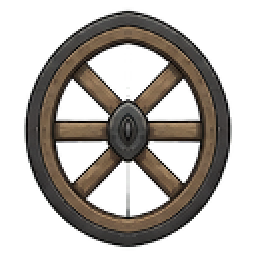
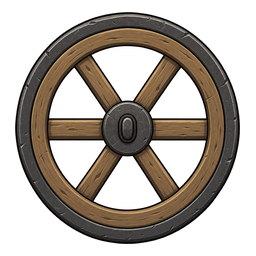
Add files via upload

diff --git a/sidescroll.js b/sidescroll.js
@@ -1,7 +1,9 @@
 (() => {
   'use strict';
 
-  // SideScroll v1.0.37: cart repair setup polish. Asset rotation / flip now share one transform with collision, abandoned repair props can live off-path, and repaired carts snap back to the gameplay layer.
+  // SideScroll v1.0.39: refreshed authored cart-repair art. The chassis is now
+  // wheel-free artwork, runtime wheels stay separate/rotating, and the axle pin
+  // uses a large readable authored texture instead of the procedural placeholder.
 
   const queryParams = new URLSearchParams(window.location.search);
   const PLAYER_MODE = queryParams.get('mode') === 'player';
@@ -1317,65 +1319,21 @@
     1050 / 220
   );
 
-  // v1.0.34 handcart prototype. The body and wheels are intentionally separate
-  // textures so wheel rotation is a real runtime transform rather than baked
-  // animation. The cart's editor/world aspect is the complete 620x255 side view.
+  // v1.0.39 handcart art. The body/chassis intentionally contains no wheels;
+  // the wheel texture is rendered as separate runtime components so it remains
+  // perfectly round and can rotate independently while the cart moves.
   assetAspect.handcart = 620 / 255;
-  textures.handcart = createImageTexture('handcart-body.png?v=1.0.37', 'handcart', null, 620 / 255);
+  textures.handcart = createImageTexture('handcart-body.png?v=1.0.39', 'handcart', null, 620 / 255);
   assetAspect['handcart-wheel'] = 1;
-  textures['handcart-wheel'] = createImageTexture('handcart-wheel.png?v=1.0.37', 'handcart-wheel', null, 1);
-  textures['handcart-wheel-mask'] = createTexture((ctx, w, h) => {
-    ctx.clearRect(0, 0, w, h);
-    ctx.fillStyle = '#3a2c23';
-    ctx.beginPath();
-    ctx.arc(w * 0.5, h * 0.5, w * 0.485, 0, Math.PI * 2);
-    ctx.fill();
-  }, 256, 256, false);
+  textures['handcart-wheel'] = createImageTexture('handcart-wheel.png?v=1.0.39', 'handcart-wheel', null, 1);
   assetAspect['handcart-broken'] = 620 / 255;
-  textures['handcart-broken'] = createProcessedImageTexture(
-    'handcart-body.png?v=1.0.37',
-    'handcart-broken',
-    (ctx) => {
-      // Mechanics-first broken state: remove the front/right wheel from the
-      // existing cart art at runtime. The final art can replace this later
-      // without changing any puzzle state or interaction code.
-      ctx.save();
-      ctx.globalCompositeOperation = 'destination-out';
-      ctx.beginPath();
-      ctx.arc(400, 162, 96, 0, Math.PI * 2);
-      ctx.fill();
-      ctx.restore();
-    },
-    620 / 255
-  );
+  textures['handcart-broken'] = textures.handcart;
   assetAspect['cart-wheel-loose'] = 1;
   textures['cart-wheel-loose'] = textures['handcart-wheel'];
   assetAspect['cart-wheel-ready'] = 1;
   textures['cart-wheel-ready'] = textures['handcart-wheel'];
-  assetAspect['axle-pin'] = 1;
-  textures['axle-pin'] = createTexture((ctx, w, h) => {
-    ctx.clearRect(0, 0, w, h);
-    ctx.translate(w * 0.5, h * 0.5);
-    ctx.rotate(-0.32);
-    ctx.fillStyle = 'rgba(238,209,129,.34)';
-    ctx.beginPath();
-    ctx.arc(0, 0, w * 0.40, 0, Math.PI * 2);
-    ctx.fill();
-    ctx.fillStyle = '#9e8959';
-    ctx.fillRect(-w * 0.31, -h * 0.065, w * 0.54, h * 0.13);
-    ctx.fillStyle = '#e3cd94';
-    ctx.fillRect(-w * 0.30, -h * 0.025, w * 0.49, h * 0.05);
-    ctx.fillStyle = '#75613d';
-    ctx.fillRect(w * 0.13, -h * 0.115, w * 0.10, h * 0.23);
-    ctx.fillStyle = '#e8d49c';
-    ctx.beginPath();
-    ctx.arc(-w * 0.31, 0, w * 0.105, 0, Math.PI * 2);
-    ctx.fill();
-    ctx.fillStyle = '#705c39';
-    ctx.beginPath();
-    ctx.arc(-w * 0.31, 0, w * 0.058, 0, Math.PI * 2);
-    ctx.fill();
-  }, 256, 256, false);
+  assetAspect['axle-pin'] = 2;
+  textures['axle-pin'] = createImageTexture('axle-pin.png?v=1.0.39', 'axle-pin', null, 2);
 
   // Gameplay asset: a deliberately simple, readable wooden crate.  It is
   // generated in code so it has no extra file dependency and can be used as
@@ -3125,6 +3083,7 @@ if (characterSwapBtn) characterSwapBtn.addEventListener('click', () => { toggleC
       id:'axle-pin',
       label:'Axle Pin',
       asset:'axle-pin',
+      image:'axle-pin.png',
       description:'A sturdy pin that looks like it belongs to a wheel.'
     }
   };
@@ -3226,6 +3185,7 @@ if (characterSwapBtn) characterSwapBtn.addEventListener('click', () => { toggleC
   const STONE_WALL_ASPECT = 1600 / 844;
   function correctPuzzleAssetWidth(assetName, width, height) {
     if (assetName === 'stone-wall' && Number.isFinite(Number(height))) return Number(height) * STONE_WALL_ASPECT;
+    if (assetName === 'axle-pin' && Number.isFinite(Number(height))) return Number(height) * 2;
     return width;
   }
   function migratePuzzleArtV2Snapshot(snapshot) {
@@ -3978,6 +3938,20 @@ if (characterSwapBtn) characterSwapBtn.addEventListener('click', () => { toggleC
         existing.set(objectId, obj);
       }
       if (!obj) continue;
+      // Snapshot reset must restore the object's identity as well as its
+      // position/state. Repair interactions deliberately change assetName
+      // (broken cart -> fixed cart, loose wheel -> ready wheel), so leaving the
+      // live asset in place meant Reset could never truly return to the authored
+      // start state. Rebind all asset-derived render state before rebuilding
+      // behaviour/collision below.
+      if (asset && obj.assetName !== asset) {
+        obj.assetName = asset;
+        obj.texture = textures[asset];
+        obj.mesh = billboardMesh;
+        obj.uvScale = assetUv[asset]?.scale || [1, 1];
+        obj.uvOffset = assetUv[asset]?.offset || [0, 0];
+        obj.noFog = asset === 'axle-pin';
+      }
       const xRel = Number.isFinite(state.x) ? state.x : (prop?.x ?? 0);
       obj.x = instance.marker.x + xRel;
       obj.z = Number.isFinite(state.z) ? state.z : (prop?.z ?? pathZ);
@@ -3985,6 +3959,8 @@ if (characterSwapBtn) characterSwapBtn.addEventListener('click', () => { toggleC
       if (obj.assetName === 'axle-pin' && obj.sy < 0.66) obj.sy = 0.72;
       const rawSnapshotWidth = Number.isFinite(state.sx) ? state.sx : (prop?.width ?? obj.sy * (assetAspect[obj.assetName] || 1));
       obj.sx = correctPuzzleAssetWidth(obj.assetName, rawSnapshotWidth, obj.sy);
+      obj.baseSx = obj.sx;
+      obj.baseSy = obj.sy;
       obj.flip = !!state.flip;
       obj.deleted = !!state.deleted;
       obj.category = state.category || prop?.category || obj.category || 'gameplay';
@@ -4002,6 +3978,7 @@ if (characterSwapBtn) characterSwapBtn.addEventListener('click', () => { toggleC
       obj.counterweightVisualAngle = 0;
       obj.counterweightAngle = 0;
       obj.counterweightAngularVelocity = 0;
+      obj.wheelRotation = 0;
       obj.carried = false;
       obj.groundLine = Rig.clamp(Number.isFinite(state.groundLine) ? Number(state.groundLine) : assetGroundLineDefault(obj.assetName), 0, 1);
       const baseY = terrainAnchorBaseY(obj.x, obj.z, obj.category, obj.gameplayLayerLocked);
@@ -5121,7 +5098,7 @@ if (characterSwapBtn) characterSwapBtn.addEventListener('click', () => { toggleC
         collision:{halfWidth:0.33,height:0.66,depth:0.32,platform:false,points:[{x:-1,y:0},{x:1,y:0},{x:1,y:1},{x:-1,y:1}]} },
       { name:'cart-wheel-ready', label:'CART WHEEL · READY', image:'handcart-wheel.png', category:'gameplay', gameplayType:'prop', thumb:'◉', defaultHeight:1.06, gameplayLayerLocked:false,
         collision:{halfWidth:0.33,height:0.66,depth:0.32,platform:false,points:[{x:-1,y:0},{x:1,y:0},{x:1,y:1},{x:-1,y:1}]} },
-      { name:'axle-pin', label:'AXLE PIN', category:'gameplay', gameplayType:'collectible', thumb:'✦', defaultHeight:0.72, gameplayLayerLocked:false }
+      { name:'axle-pin', label:'AXLE PIN', image:'axle-pin.png', category:'gameplay', gameplayType:'collectible', thumb:'✦', defaultHeight:0.72, gameplayLayerLocked:false }
     ]},
     { scope:'environment', title: 'DRESSING · TREES', items: [
       'tree01','tree02','tree03','tree04','tree05','tree06','tree07','tree08'
@@ -6942,6 +6919,16 @@ if (characterSwapBtn) characterSwapBtn.addEventListener('click', () => { toggleC
     delete state.reward;
   }
 
+  function removePuzzleOwnedInventoryItems(instance) {
+    if (!instance?.id) return;
+    const owned = [];
+    for (const [itemId, item] of Object.entries(inventoryState.items || {})) {
+      const count = Math.max(0, Number(item?.sources?.[instance.id]) || 0);
+      if (count > 0) owned.push([itemId, count]);
+    }
+    for (const [itemId, count] of owned) removeInventoryItem(itemId, count, instance.id);
+  }
+
   function resetCurrentPuzzle() {
     const instance = authoringPuzzle();
     if (!instance) return;
@@ -6954,10 +6941,19 @@ if (characterSwapBtn) characterSwapBtn.addEventListener('click', () => { toggleC
       removePuzzleRewardFromInventory(instance, { allowLegacyFallback:true });
       setInventoryOpen(false);
       positionPlayerAtPuzzleEntry(instance);
+      shownPuzzleThoughts.clear();
       hintEl.textContent = 'Test reset to the setup you started this test with · reward removed';
     } else {
       resetPuzzleReward(instance);
+      // Small puzzle items such as the axle pin belong to the puzzle too. If
+      // the player collected one but has not yet consumed it, Reset should not
+      // duplicate it by restoring the world pickup while leaving the inventory
+      // copy behind.
+      removePuzzleOwnedInventoryItems(instance);
       applyPuzzleStart(instance, { persistRuntime:true });
+      setInventoryOpen(false);
+      positionPlayerAtPuzzleEntry(instance);
+      shownPuzzleThoughts.clear();
       hintEl.textContent = 'Puzzle reset to its saved start · completion reward reset too';
     }
     hintEl.classList.remove('hidden');
@@ -8978,15 +8974,11 @@ if (characterSwapBtn) characterSwapBtn.addEventListener('click', () => { toggleC
 
   function drawHandcartWheels(obj, view, drawX, drawY = obj.y, bodyRotation = 0, bodyFlip = false) {
     if (!textures['handcart-wheel']) return;
-    // The generated side-view body already has a clean finished cart. A small
-    // opaque inner disk masks only its baked spokes; the separately textured
-    // wheel is then drawn over the top and can rotate freely. The outer baked
-    // rim sits almost exactly under the new rim, so it reads as wheel thickness
-    // rather than a second wheel while keeping the source art clean.
-    const wheelSize = obj.sy * (185 / 255);
-    const maskSize = obj.sy * (124 / 255);
-    const wheelV = (255 - 162) / 255;
-    const wheelUs = obj.assetName === 'handcart-broken' ? [225 / 620] : [225 / 620, 400 / 620];
+    // The v1.0.39 chassis is genuinely wheel-free. These authored wheel centres
+    // line up with its two vertical supports and rotate around their true hubs.
+    const wheelSize = obj.sy * (160 / 255);
+    const wheelV = (255 - 164) / 255;
+    const wheelUs = obj.assetName === 'handcart-broken' ? [150 / 620] : [150 / 620, 470 / 620];
     for (const uRaw of wheelUs) {
       const u = bodyFlip ? 1 - uRaw : uRaw;
       const localX = (u - 0.5) * obj.sx;
@@ -8994,16 +8986,6 @@ if (characterSwapBtn) characterSwapBtn.addEventListener('click', () => { toggleC
       const c = Math.cos(bodyRotation), s = Math.sin(bodyRotation);
       const centreX = drawX + localX * c - localY * s;
       const centreY = drawY + localX * s + localY * c;
-      if (textures['handcart-wheel-mask']) {
-        const mask = {
-          mesh:centredBillboardMesh, texture:textures['handcart-wheel-mask'],
-          x:centreX, y:centreY, z:obj.z + 0.001,
-          sx:maskSize, sy:maskSize, sz:1, flip:false, shade:1, opacity:1, noFog:obj.noFog, tint:null,
-          asset:true, assetName:'handcart-wheel-mask-component', layer:obj.layer, wrap:false,
-          deleted:false, carried:false, shadow:null, uvScale:[1,1], uvOffset:[0,0], counterweightVisualAngle:0
-        };
-        drawObject(mask, view, { force:true });
-      }
       const wheel = {
         mesh:centredBillboardMesh, texture:textures['handcart-wheel'],
         x:centreX, y:centreY,

diff --git a/asset-lab.js b/asset-lab.js
@@ -1,7 +1,7 @@
 (() => {
   'use strict';
 
-  const VERSION = '1.0.37';
+  const VERSION = '1.0.39';
   const BEHAVIOUR_KEY = 'sidescroll.asset-behaviours.v1';
   const COLLISION_KEY = 'sidescroll.asset-collisions.v1';
   const LAYOUT_KEY = 'sidescroll.asset-layout.v1';
@@ -19,7 +19,7 @@
     {group:'PUZZLE · BRIDGE',scope:'puzzle',name:'handcart-broken',label:'Broken Handcart',image:'handcart-body.png',height:1.75,groundLine:0.064,behaviour:{},collision:{halfWidthRatio:0.405,heightRatio:0.72,fixedHeight:null,depthRatio:0.20,points:[{x:-1,y:0},{x:-1,y:.17},{x:-.8,y:.17},{x:-.8,y:.34},{x:-.63,y:.34},{x:-.63,y:1},{x:.63,y:1},{x:.63,y:.34},{x:.8,y:.34},{x:.8,y:.17},{x:1,y:.17},{x:1,y:0}]}},
     {group:'PUZZLE · BRIDGE',scope:'puzzle',name:'handcart',label:'Wooden Handcart · Pushable',image:'handcart-body.png',height:1.75,groundLine:0.064,behaviour:{solid:true,supportSurface:true,pushable:true},collision:{halfWidthRatio:0.405,heightRatio:0.72,fixedHeight:null,depthRatio:0.20,points:[{x:-1,y:0},{x:-1,y:.17},{x:-.8,y:.17},{x:-.8,y:.34},{x:-.63,y:.34},{x:-.63,y:1},{x:.63,y:1},{x:.63,y:.34},{x:.8,y:.34},{x:.8,y:.17},{x:1,y:.17},{x:1,y:0}]}},
     {group:'PUZZLE · BRIDGE',scope:'puzzle',name:'cart-wheel-loose',label:'Cart Wheel',image:'handcart-wheel.png',height:1.06,groundLine:0,behaviour:{carryable:true,placeable:true},collision:{halfWidthRatio:0.30,heightRatio:0.62,fixedHeight:null,depthRatio:0.20,points:[{x:-1,y:0},{x:1,y:0},{x:1,y:1},{x:-1,y:1}]}},
-    {group:'PUZZLE · BRIDGE',scope:'puzzle',name:'axle-pin',label:'Axle Pin',procedural:'axle-pin',height:0.72,groundLine:0,behaviour:{}},
+    {group:'PUZZLE · BRIDGE',scope:'puzzle',name:'axle-pin',label:'Axle Pin',image:'axle-pin.png',height:0.72,groundLine:0,behaviour:{}},
     {group:'PUZZLE · WOODLAND',scope:'puzzle',name:'puzzle-log-a',label:'Moveable Log A',image:'puzzle-log-a.png',height:0.84,behaviour:{solid:true,carryable:true,placeable:true,supportSurface:true,stackable:true},collision:{halfWidthRatio:0.52/(0.84*1.7083),fixedHeight:STACK_ITEM_HEIGHT,heightRatio:null,depthRatio:0.56/(0.84*1.7083),points:null}},
     {group:'PUZZLE · WOODLAND',scope:'puzzle',name:'puzzle-log-b',label:'Moveable Log B',image:'puzzle-log-b.png',height:0.72,behaviour:{solid:true,carryable:true,placeable:true,supportSurface:true,stackable:true}},
     {group:'PUZZLE · WOODLAND',scope:'puzzle',name:'puzzle-log-c',label:'Moveable Log C',image:'puzzle-log-c.png',height:0.76,behaviour:{solid:true,carryable:true,placeable:true,supportSurface:true,stackable:true}},
@@ -172,6 +172,9 @@
   const defaultPoints = () => [{x:-1,y:0},{x:1,y:0},{x:1,y:1},{x:-1,y:1}];
   const clone = value => value == null ? value : JSON.parse(JSON.stringify(value));
   const clamp = (value,min,max) => Math.max(min,Math.min(max,value));
+  const cartWheelPreview = new Image();
+  cartWheelPreview.onload = () => draw();
+  cartWheelPreview.src = `handcart-wheel.png?v=${VERSION}`;
 
   function drawAxlePin(ctx,w,h){
     ctx.clearRect(0,0,w,h);
@@ -200,20 +203,6 @@
     if (asset.procedural) {
       const img=makeProceduralImage(asset);
       img.onload=()=>{resize();renderPointEditor();draw();};
-      imageCache.set(asset.name,img);
-      return img;
-    }
-    if (asset.name === 'handcart-broken') {
-      const img = new Image();
-      const source = new Image();
-      source.onload = () => {
-        const c=document.createElement('canvas'); c.width=source.naturalWidth; c.height=source.naturalHeight;
-        const cctx=c.getContext('2d'); cctx.drawImage(source,0,0);
-        cctx.save(); cctx.globalCompositeOperation='destination-out'; cctx.beginPath(); cctx.arc(400,162,96,0,Math.PI*2); cctx.fill(); cctx.restore();
-        img.src=c.toDataURL('image/png');
-      };
-      img.onload=()=>{resize();renderPointEditor();draw();};
-      source.src=`${asset.image}?v=${VERSION}`;
       imageCache.set(asset.name,img);
       return img;
     }
@@ -990,6 +979,15 @@
         ctx.rotate(-visual.deg*Math.PI/180);
         ctx.scale(visual.flip?-1:1,1);
         ctx.drawImage(image,-ar.drawW*.5,-ar.drawH,ar.drawW,ar.drawH);
+        if((asset.name==='handcart'||asset.name==='handcart-broken')&&cartWheelPreview.complete&&cartWheelPreview.naturalWidth){
+          const wheelSize=ar.drawH*(160/255);
+          const wheelY=-(91/255)*ar.drawH;
+          const wheelUs=asset.name==='handcart-broken'?[150/620]:[150/620,470/620];
+          for(const u of wheelUs){
+            const wheelX=(u-.5)*ar.drawW;
+            ctx.drawImage(cartWheelPreview,wheelX-wheelSize*.5,wheelY-wheelSize*.5,wheelSize,wheelSize);
+          }
+        }
         ctx.restore();
       }
       if(state.pairMode){

diff --git a/puzzle-groups.js b/puzzle-groups.js
@@ -1,5 +1,5 @@
 window.SideScrollPuzzleConfig = {
-  version: 26,
+  version: 27,
   assetPacks: {
     "woodland-puzzle-atlas-v1": {
       assets: [
@@ -13,10 +13,10 @@ window.SideScrollPuzzleConfig = {
         { name: "bridge-left", url: "bridge-left.png?v=1.0.12", aspect: 1.298592 },
         { name: "bridge-right", url: "bridge-right.png?v=1.0.12", aspect: 1.298592 },
         { name: "handcart-broken", aspect: 2.431373 },
-        { name: "handcart", url: "handcart-body.png?v=1.0.37", aspect: 2.431373 },
+        { name: "handcart", url: "handcart-body.png?v=1.0.39", aspect: 2.431373 },
         { name: "cart-wheel-loose", aspect: 1 },
         { name: "cart-wheel-ready", aspect: 1 },
-        { name: "axle-pin", aspect: 1 },
+        { name: "axle-pin", url: "axle-pin.png?v=1.0.39", aspect: 2 },
         { name: "counterweight-plank", url: "counterweight-plank.png?v=1.0.25", aspect: 4.772727 },
         { name: "stone-wall", url: "stone-wall.png?v=0.2.94", aspect: 1.895735 },
         { name: "stone-piece-a", url: "stone-piece-a.png?v=0.2.94", aspect: 1.094391 },

diff --git a/play.html b/play.html
@@ -9,7 +9,7 @@
   <meta name="theme-color" content="#081015">
   <link rel="manifest" href="manifest.json">
   <link rel="apple-touch-icon" href="icon-192.png">
-  <link rel="stylesheet" href="style.css?v=1.0.37">
+  <link rel="stylesheet" href="style.css?v=1.0.39">
   <title>SideScroll</title>
 </head>
 <body class="modular-game ss-standalone-game" data-game-id="game-16">
@@ -410,11 +410,11 @@
     </section>
   </main>
 
-  <script src="site-config.js?v=1.0.37"></script>
-  <script src="core.js?v=1.0.37"></script>
-  <script src="walk-rig.js?v=1.0.37"></script>
-  <script src="puzzle-groups.js?v=1.0.37"></script>
-  <script src="baked-game-design.js?v=1.0.37"></script>
-  <script src="sidescroll.js?v=1.0.37"></script>
+  <script src="site-config.js?v=1.0.39"></script>
+  <script src="core.js?v=1.0.39"></script>
+  <script src="walk-rig.js?v=1.0.39"></script>
+  <script src="puzzle-groups.js?v=1.0.39"></script>
+  <script src="baked-game-design.js?v=1.0.39"></script>
+  <script src="sidescroll.js?v=1.0.39"></script>
 </body>
 </html>

diff --git a/asset-lab.html b/asset-lab.html
@@ -9,7 +9,7 @@
   <meta name="theme-color" content="#172026">
   <link rel="manifest" href="manifest.json">
   <link rel="apple-touch-icon" href="icon-192.png">
-  <link rel="stylesheet" href="style.css?v=1.0.37">
+  <link rel="stylesheet" href="style.css?v=1.0.39">
   <title>Asset Lab · SideScroll</title>
 </head>
 <body class="ss-asset-lab">
@@ -157,8 +157,8 @@
     </aside>
   </main>
 
-  <script src="site-config.js?v=1.0.37"></script>
-  <script src="core.js?v=1.0.37"></script>
-  <script src="asset-lab.js?v=1.0.37"></script>
+  <script src="site-config.js?v=1.0.39"></script>
+  <script src="core.js?v=1.0.39"></script>
+  <script src="asset-lab.js?v=1.0.39"></script>
 </body>
 </html>

diff --git a/sw.js b/sw.js
@@ -1,4 +1,4 @@
-const CACHE = "sidescroll-v1.0.37";
+const CACHE = "sidescroll-v1.0.39";
 const APP_SHELL = [
   "./",
   "./index.html",
@@ -41,6 +41,7 @@ const APP_SHELL = [
   "./bridge-right.png",
   "./handcart-body.png",
   "./handcart-wheel.png",
+  "./axle-pin.png",
   "./stone-wall.png",
   "./stone-piece-a.png",
   "./stone-piece-b.png",

diff --git a/README.md b/README.md
@@ -1,11 +1,10 @@
-# SideScroll v1.0.37
+# SideScroll v1.0.39
 
-- Asset Lab now has general **Rotation** and **Flip Horizontally** controls. Collision uses the same rotation/flip/offset transform so it stays aligned with the art.
-- Adds a real **Remove Collision** action in Asset Lab; removed collision stays removed instead of immediately regenerating.
-- Fixes non-solid assets still blocking the player. A Cart Wheel can keep a useful carry/placement shape without being a world obstacle.
-- Adds a per-instance **Flip** button to the normal scene/puzzle editor.
-- Broken Handcart, loose Cart Wheel and Axle Pin now default to the free depth layer so they can sit slightly off the road. The loose wheel joins the gameplay layer after pickup.
-- Repairing the cart now snaps the fixed pushable cart onto the gameplay path while preserving its facing direction.
-- Removes the old random flip from cart-repair assets and migrates existing authored repair pieces to a consistent orientation.
-- Asset Lab's player reference now matches the current in-game character art scale (~2.70 world m) rather than the old 1.48 m reference.
-- Fixes the procedural Axle Pin thumbnail in Asset Lab.
+- Replaces the placeholder cart-repair art with the new authored art pass.
+- Handcart chassis is now genuinely wheel-free; fixed/broken wheels remain separate runtime components so they stay round and rotate correctly.
+- New round wooden wheel is used by the cart and by the carryable loose/repaired wheel object.
+- New large metal axle-pin texture replaces the procedural placeholder and is also used in Asset Lab and the inventory thumbnail.
+- Wheel anchors were retuned to the new chassis supports; broken carts show one wheel and fixed carts show two.
+- Asset Lab composites the separate wheel texture onto cart previews so its fixed/broken previews match the game setup.
+- Existing placed axle pins inherit the new 2:1 art proportions when puzzle state is restored.
+- Keeps the v1.0.38 full puzzle-reset behaviour intact.
